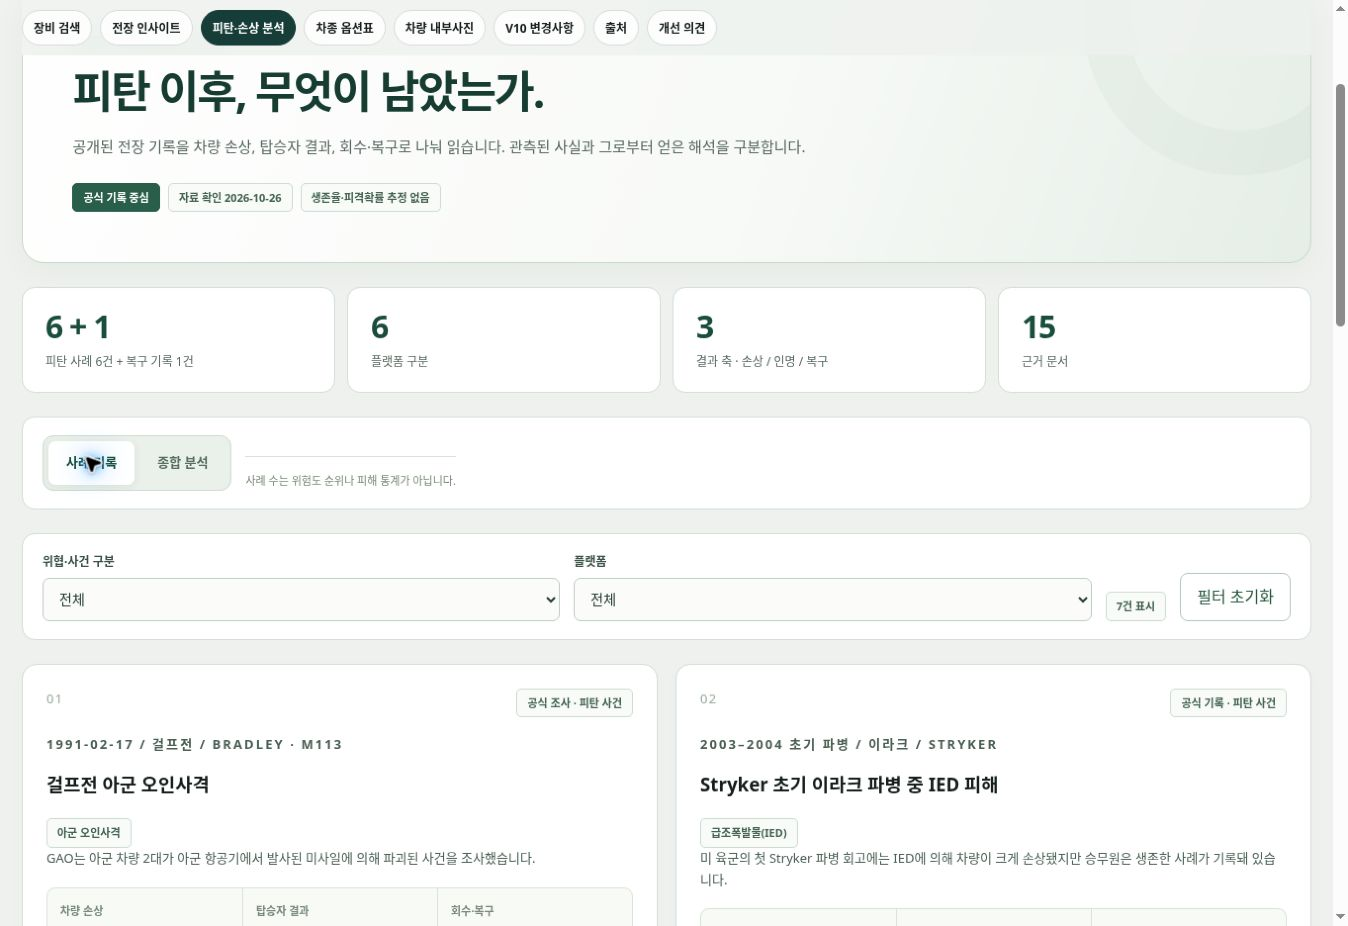
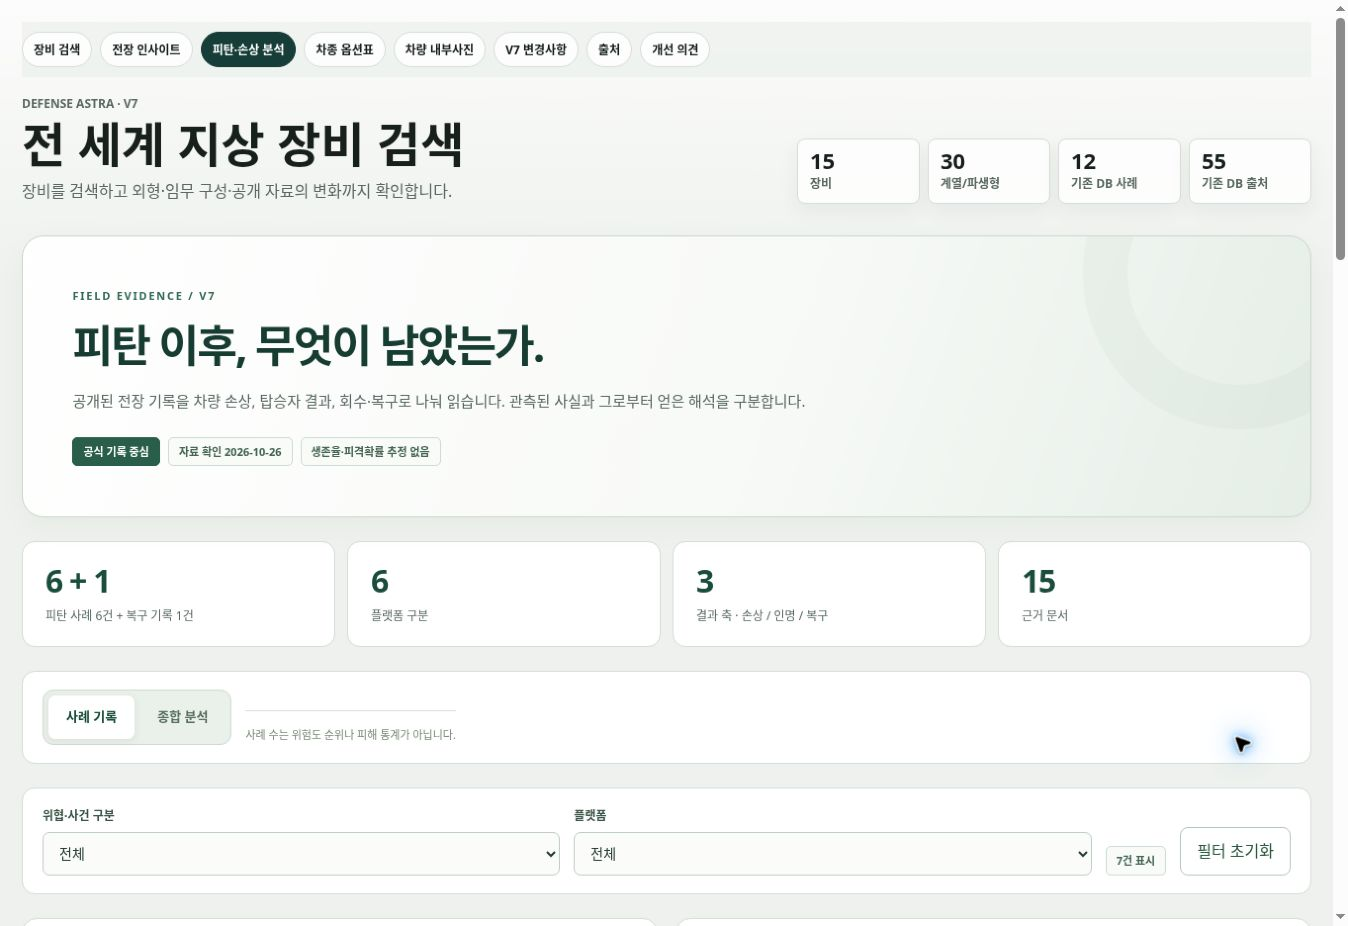
Correct webapp version to V7, preserve V10 shared links, refresh screenshots

diff --git a/src/components/V10Workspace.tsx b/src/components/V10Workspace.tsx
@@ -48,7 +48,7 @@ function EvidencePage() {
   const [view, setView] = useState("cases");
   const cases = history.cases.filter((item) => (threat === "all" || item.threat === threat) && (platform === "all" || item.platform === platform));
   return <>
-    <Hero eyebrow="FIELD EVIDENCE / V10" title="피탄 이후, 무엇이 남았는가." description="공개된 전장 기록을 차량 손상, 탑승자 결과, 회수·복구로 나눠 읽습니다. 관측된 사실과 그로부터 얻은 해석을 구분합니다.">
+    <Hero eyebrow="FIELD EVIDENCE / V7" title="피탄 이후, 무엇이 남았는가." description="공개된 전장 기록을 차량 손상, 탑승자 결과, 회수·복구로 나눠 읽습니다. 관측된 사실과 그로부터 얻은 해석을 구분합니다.">
       <span className="v10-pill v10-pill-solid">공식 기록 중심</span><span className="v10-pill">자료 확인 {history.checkedAt}</span><span className="v10-pill">생존율·피격확률 추정 없음</span>
     </Hero>
     <div className="v10-stats"><div className="v10-stat"><strong>6 + 1</strong><span>피탄 사례 6건 + 복구 기록 1건</span></div><div className="v10-stat"><strong>{new Set(history.cases.map((item) => item.platform)).size}</strong><span>플랫폼 구분</span></div><div className="v10-stat"><strong>3</strong><span>결과 축 · 손상 / 인명 / 복구</span></div><div className="v10-stat"><strong>{history.sources.length}</strong><span>근거 문서</span></div></div>
@@ -84,13 +84,13 @@ function OptionsPage() {
   const rows = vehicle.options.filter((item) => category === "all" || item.category === category);
   const selectedOptions = vehicle.options.filter((item) => selected.includes(item.id));
   const label = (id: string) => options.statusLegend.find((item) => item.id === id)?.label ?? id;
-  const selectionText = [`Defense Astra V10 · 관심 구성`, `차종: ${vehicle.name}`, `기준 계열형: ${variant.nameKo} (${variant.name})`, `공개 상태: ${label(variant.status)}`, ...selectedOptions.map((item) => `- ${item.name}: ${label(item.status)}\n  ${item.detail}`), "체크한 항목은 검토용 관심 목록입니다. 동시 탑재·호환성·가격을 보증하지 않습니다.", `자료 확인: ${options.checkedAt}`].join("\n");
+  const selectionText = [`Defense Astra V7 · 관심 구성`, `차종: ${vehicle.name}`, `기준 계열형: ${variant.nameKo} (${variant.name})`, `공개 상태: ${label(variant.status)}`, ...selectedOptions.map((item) => `- ${item.name}: ${label(item.status)}\n  ${item.detail}`), "체크한 항목은 검토용 관심 목록입니다. 동시 탑재·호환성·가격을 보증하지 않습니다.", `자료 확인: ${options.checkedAt}`].join("\n");
   function changeVehicle(id: string) { setVehicleId(id); setVariantId(id === "boxer" ? "boxer-samson" : "stryker-icv"); setSelected([]); setCategory("all"); setStatus(""); setManual(false); }
   function changeVariant(id: string) { setVariantId(id); setSelected([]); setStatus(""); setManual(false); }
   async function copy() { try { await navigator.clipboard.writeText(selectionText); setStatus("관심 구성을 복사했습니다."); setManual(false); } catch { setStatus("아래 내용을 선택해 직접 복사해 주세요."); setManual(true); } }
-  function download() { const escape = (value: string) => `"${value.replace(/"/g, '""')}"`; const lines = [["차종", "계열형", "관심 항목", "확인 상태", "내용"], ...selectedOptions.map((item) => [vehicle.name, variant.nameKo, item.name, label(item.status), item.detail])]; const blob = new Blob(["\ufeff" + lines.map((line) => line.map(escape).join(",")).join("\r\n")], { type: "text/csv;charset=utf-8" }); const url = URL.createObjectURL(blob); const anchor = document.createElement("a"); anchor.href = url; anchor.download = `Defense_Astra_V10_${vehicle.id}_interest.csv`; anchor.click(); setTimeout(() => URL.revokeObjectURL(url), 1000); }
+  function download() { const escape = (value: string) => `"${value.replace(/"/g, '""')}"`; const lines = [["차종", "계열형", "관심 항목", "확인 상태", "내용"], ...selectedOptions.map((item) => [vehicle.name, variant.nameKo, item.name, label(item.status), item.detail])]; const blob = new Blob(["\ufeff" + lines.map((line) => line.map(escape).join(",")).join("\r\n")], { type: "text/csv;charset=utf-8" }); const url = URL.createObjectURL(blob); const anchor = document.createElement("a"); anchor.href = url; anchor.download = `Defense_Astra_V7_${vehicle.id}_interest.csv`; anchor.click(); setTimeout(() => URL.revokeObjectURL(url), 1000); }
   return <>
-    <Hero eyebrow="VEHICLE CONFIGURATOR / V10" title="차종을 고르고, 구성을 비교하세요." description="자동차 옵션표처럼 살펴보는 공개 사양 카탈로그입니다. 계열형을 먼저 고른 뒤, 관련 장비를 관심 목록에 담아 비교합니다."><span className="v10-pill v10-pill-solid">2개 차종 · 20개 계열형</span><span className="v10-pill">제안 / 계약 / 납품 구분</span><span className="v10-pill">자료 확인 {options.checkedAt}</span></Hero>
+    <Hero eyebrow="VEHICLE CONFIGURATOR / V7" title="차종을 고르고, 구성을 비교하세요." description="자동차 옵션표처럼 살펴보는 공개 사양 카탈로그입니다. 계열형을 먼저 고른 뒤, 관련 장비를 관심 목록에 담아 비교합니다."><span className="v10-pill v10-pill-solid">2개 차종 · 20개 계열형</span><span className="v10-pill">제안 / 계약 / 납품 구분</span><span className="v10-pill">자료 확인 {options.checkedAt}</span></Hero>
     <div className="v10-vehicle-choices">{options.vehicles.map((item) => <button key={item.id} type="button" className="v10-choice" aria-pressed={vehicle.id === item.id} onClick={() => changeVehicle(item.id)}><span className="v10-eyebrow">{item.variants.length} VARIANTS</span><strong>{item.name}</strong><span>{item.tagline}</span></button>)}</div>
     <div className="v10-vehicle-intro"><p>{vehicle.summary}</p>{sourceLinks(vehicle.sources, options.sources)}</div>
     <div className="v10-toolbar"><label className="v10-field">01 · 기준 계열형<select value={variant.id} onChange={(event) => changeVariant(event.target.value)}>{vehicle.variants.map((item) => <option key={item.id} value={item.id}>{item.nameKo} · {item.market}</option>)}</select></label><label className="v10-field">02 · 옵션 분야<select value={category} onChange={(event) => setCategory(event.target.value)}><option value="all">전체 분야</option>{[...new Set(vehicle.options.map((item) => item.category))].map((value) => <option key={value}>{value}</option>)}</select></label></div>
@@ -115,21 +115,21 @@ function InteriorsPage({ onOpen }: { onOpen: (image: ImageView) => void }) {
 
 function ChangesPage({ onNavigate, onOpen }: { onNavigate: Props["onNavigate"]; onOpen: (image: ImageView) => void }) {
   const changes = [
-    { id: "evidence", number: "01", title: "피탄·손상 사례와 종합 분석", before: "기존 전장 인사이트는 기술 동향과 사례 요약 중심이었습니다.", after: "피탄 이후의 차량·인명·회수 결과를 분리하고, 원문 근거와 미확인 범위를 함께 봅니다.", route: "/evidence", action: "피탄 분석 열기", caption: "V10 · 공개 사례 기록과 결과 분류" },
-    { id: "options", number: "02", title: "BOXER·STRYKER 옵션표", before: "기존에는 장비 상세와 파생형 정보를 각각 확인했습니다.", after: "차종과 기준 계열형을 고르면 관련 옵션, 확인 상태, 관심 구성 목록을 한 화면에서 정리합니다.", route: "/options", action: "차종별 옵션 열기", caption: "V10 · 차종·계열형별 공개 옵션 비교" },
-    { id: "interiors", number: "03", title: "차종별 내부사진", before: "외형·3D 중심 화면에서 내부 공간은 별도 자료를 찾아야 했습니다.", after: "차종별 실제 내부사진을 모아 확대해서 보고, 파생형·출처·사용 조건까지 확인합니다.", route: "/interiors", action: "내부사진 시연", caption: "V10 · 실제 내부사진 갤러리", optional: true }
+    { id: "evidence", number: "01", title: "피탄·손상 사례와 종합 분석", before: "기존 전장 인사이트는 기술 동향과 사례 요약 중심이었습니다.", after: "피탄 이후의 차량·인명·회수 결과를 분리하고, 원문 근거와 미확인 범위를 함께 봅니다.", route: "/evidence", action: "피탄 분석 열기", caption: "V7 · 공개 사례 기록과 결과 분류" },
+    { id: "options", number: "02", title: "BOXER·STRYKER 옵션표", before: "기존에는 장비 상세와 파생형 정보를 각각 확인했습니다.", after: "차종과 기준 계열형을 고르면 관련 옵션, 확인 상태, 관심 구성 목록을 한 화면에서 정리합니다.", route: "/options", action: "차종별 옵션 열기", caption: "V7 · 차종·계열형별 공개 옵션 비교" },
+    { id: "interiors", number: "03", title: "차종별 내부사진", before: "외형·3D 중심 화면에서 내부 공간은 별도 자료를 찾아야 했습니다.", after: "차종별 실제 내부사진을 모아 확대해서 보고, 파생형·출처·사용 조건까지 확인합니다.", route: "/interiors", action: "내부사진 시연", caption: "V7 · 실제 내부사진 갤러리", optional: true }
   ];
   const show = (id: string, title: string, caption: string) => onOpen({ src: publicPath(`media/v10/screenshots/${id}.jpg`), title, caption });
-  return <><Hero eyebrow="WHAT CHANGED / V10" title="의견이 기능으로 바뀐 순간." description="기존 화면과 새 기능의 실제 캡처를 모았습니다. 발표 중 변경 내용을 보여주고, 바로 해당 화면으로 이동할 수 있습니다."><span className="v10-pill v10-pill-solid">핵심 개선 2건</span><span className="v10-pill">추가 시연 · 내부사진</span><span className="v10-pill">기준 화면: 기존 웹앱 V6</span></Hero>
-    <section className="v10-before-after"><div><p className="v10-eyebrow">BEFORE / V6</p><h3>기존 전장 인사이트</h3><p>공식 발표와 기술 동향을 카드로 확인하던 화면입니다. 아래 V10 신규 기능의 비교 기준으로 사용했습니다.</p></div><button className="v10-photo-button" type="button" aria-label="기존 V6 전장 인사이트 캡처 확대" onClick={() => show("before", "기존 V6 · 전장 인사이트", "V10 변경 전 비교 기준 화면. 기존 공식 발표·기술 동향 카드 화면을 실제 캡처했습니다.")}><Photo src={publicPath("media/v10/screenshots/before.jpg")} alt="기존 V6 전장 인사이트 화면 캡처" className="v10-screenshot" /></button></section>
-    <div className="v10-change-grid">{changes.map((item) => <article className="v10-change" key={item.id}><div className="v10-change-detail"><div className="v10-card-heading"><span className="v10-card-index">{item.number}</span><span className={`v10-pill ${item.optional ? "v10-pill-warn" : "v10-pill-solid"}`}>{item.optional ? "추가 시연" : "V10 핵심 개선"}</span></div><h3>{item.title}</h3><dl><dt>이전</dt><dd>{item.before}</dd><dt>변경</dt><dd>{item.after}</dd></dl></div><button type="button" className="v10-photo-button" aria-label={`${item.title} 화면 캡처 확대`} onClick={() => show(item.id, item.title, item.caption)}><Photo src={publicPath(`media/v10/screenshots/${item.id}.jpg`)} alt={item.caption} className="v10-screenshot" /></button><div className="v10-change-detail"><p className="v10-footnote">{item.caption} · 실제 화면 캡처</p><button type="button" className="v10-button primary" onClick={() => onNavigate(item.route)}>{item.action} →</button></div></article>)}</div>
+  return <><Hero eyebrow="WHAT CHANGED / V7" title="의견이 기능으로 바뀐 순간." description="기존 화면과 새 기능의 실제 캡처를 모았습니다. 발표 중 변경 내용을 보여주고, 바로 해당 화면으로 이동할 수 있습니다."><span className="v10-pill v10-pill-solid">핵심 개선 2건</span><span className="v10-pill">추가 시연 · 내부사진</span><span className="v10-pill">기준 화면: 기존 웹앱 V6</span></Hero>
+    <section className="v10-before-after"><div><p className="v10-eyebrow">BEFORE / V6</p><h3>기존 전장 인사이트</h3><p>공식 발표와 기술 동향을 카드로 확인하던 화면입니다. 아래 V7 신규 기능의 비교 기준으로 사용했습니다.</p></div><button className="v10-photo-button" type="button" aria-label="기존 V6 전장 인사이트 캡처 확대" onClick={() => show("before", "기존 V6 · 전장 인사이트", "V7 변경 전 비교 기준 화면. 기존 공식 발표·기술 동향 카드 화면을 실제 캡처했습니다.")}><Photo src={publicPath("media/v10/screenshots/before.jpg")} alt="기존 V6 전장 인사이트 화면 캡처" className="v10-screenshot" /></button></section>
+    <div className="v10-change-grid">{changes.map((item) => <article className="v10-change" key={item.id}><div className="v10-change-detail"><div className="v10-card-heading"><span className="v10-card-index">{item.number}</span><span className={`v10-pill ${item.optional ? "v10-pill-warn" : "v10-pill-solid"}`}>{item.optional ? "추가 시연" : "V7 핵심 개선"}</span></div><h3>{item.title}</h3><dl><dt>이전</dt><dd>{item.before}</dd><dt>변경</dt><dd>{item.after}</dd></dl></div><button type="button" className="v10-photo-button" aria-label={`${item.title} 화면 캡처 확대`} onClick={() => show(item.id, item.title, item.caption)}><Photo src={publicPath(`media/v10/screenshots/${item.id}.jpg`)} alt={item.caption} className="v10-screenshot" /></button><div className="v10-change-detail"><p className="v10-footnote">{item.caption} · 실제 화면 캡처</p><button type="button" className="v10-button primary" onClick={() => onNavigate(item.route)}>{item.action} →</button></div></article>)}</div>
     <div className="v10-note"><h3>청중에게 물어볼 세 가지</h3><ol><li>어떤 차종을 다음 옵션표에 추가할까요?</li><li>어떤 피탄·복구 사례가 더 필요할까요?</li><li>내부에서 어떤 공간을 더 보고 싶으신가요?</li></ol></div><div className="v10-demo"><div><p className="v10-eyebrow">발표 진행</p><h3>추가 의견이 없으면, 내부사진으로 이어가세요.</h3><p>“차량 외형뿐 아니라 내부 공간도 차종별로 모아 볼 수 있습니다.”</p></div><div className="v10-inline-actions"><button type="button" className="v10-button" onClick={() => onNavigate("/interiors")}>내부사진 열기</button><button type="button" className="v10-button" onClick={() => onNavigate("/feedback")}>현장 개선 의견 기록</button></div></div>
   </>;
 }
 
 function V10Content({ page, onNavigate }: Props) {
   const [image, setImage] = useState<ImageView | null>(null);
-  return <section className="v10-workspace" aria-label="V10 연구 및 발표 기능">{page === "evidence" ? <EvidencePage /> : page === "options" ? <OptionsPage /> : page === "interiors" ? <InteriorsPage onOpen={setImage} /> : <ChangesPage onNavigate={onNavigate} onOpen={setImage} />}<ImageDialog item={image} onClose={() => setImage(null)} /></section>;
+  return <section className="v10-workspace" aria-label="V7 연구 및 발표 기능">{page === "evidence" ? <EvidencePage /> : page === "options" ? <OptionsPage /> : page === "interiors" ? <InteriorsPage onOpen={setImage} /> : <ChangesPage onNavigate={onNavigate} onOpen={setImage} />}<ImageDialog item={image} onClose={() => setImage(null)} /></section>;
 }
 
 export function V10Workspace(props: Props) {

diff --git a/src/App.tsx b/src/App.tsx
@@ -172,7 +172,7 @@ const navItems = [
   { path: "/evidence", label: "피탄·손상 분석" },
   { path: "/options", label: "차종 옵션표" },
   { path: "/interiors", label: "차량 내부사진" },
-  { path: "/changes", label: "V10 변경사항" },
+  { path: "/changes", label: "V7 변경사항" },
   { path: "/sources", label: "출처" },
   { path: "/feedback", label: "개선 의견" }
 ];
@@ -783,7 +783,7 @@ export function App() {
 
       <header className="topbar">
         <div>
-          <p className="eyebrow">DEFENSE ASTRA · V10</p>
+          <p className="eyebrow">DEFENSE ASTRA · V7</p>
           <h1>전 세계 지상 장비 검색</h1>
           <p className="hero-subtitle">장비를 검색하고 외형·임무 구성·공개 자료의 변화까지 확인합니다.</p>
         </div>

diff --git a/DECISIONS.md b/DECISIONS.md
@@ -712,3 +712,21 @@
 - HTTPS 옵션표에서 360° 상황인식 항목 선택 후 관심 구성 복사 성공. 실제 클립보드의 차종·계열형·선택 항목·주의문 확인.
 - 공개 변경사항 화면에서 실제 캡처4장과 기능 이동 버튼 확인. 화면 증거 qa/v10-live-changes.jpg, HTTP 검증 qa/v10-public-verification.json.
 - 빌드·33개 테스트·자료 검증 통과. 기존 발표자료 전체 lint 문제와 자동화 브라우저 OSM 타일403은 앞선 검증 기록의 범위·한계를 유지함.
+
+
+## 웹앱 버전 정정 V10 → V7 · 2026-10-26
+- 상태: new_task → planned → executing. 사용자의 버전 변경 지시를 구현·기존 공개주소 반영 승인으로 적용.
+- 목표: 기능·자료는 그대로 두고 웹앱의 버전과 공개 경로를 V7로 정정. 별도 발표자료 버전은 변경하지 않음.
+- 수정: releases.json, App/V10Workspace 표시·내보내기, 이미지 크레딧, 실제 화면 캡처, 버전 별칭 생성 스크립트.
+- 위험: 공유된 V10 링크 단절과 캡처 안의 V10 잔존. V10 → V7 경로별 자동이동과 신규 캡처로 해소. 내부 파일·CSS 식별자는 호환성 유지를 위해 유지.
+- 검증: 빌드·기존 테스트·변경 파일 검사, 독립 범위 검토, 공개 V7 화면과 기존 V10 경로 이동 확인.
+
+
+## 웹앱 V7 버전 정정 완료 · 2026-10-26
+- 상태: executing → verifying → completed. 기능은 유지하고 정식 버전을 V7로 정정. UI·복사 제목·CSV 파일명·크레딧과 실제 캡처3장 동기화.
+- 공개 commit: 89825d46e58102aa97da101c0de87c62b89ec584. GitHub Pages 실행40288728168 completed/success.
+- 공개 URL: https://defense-astra.github.io/versions/v7/changes
+- 검증: npm run build 및 node scripts/build-public-release.mjs 통과, npm run test 7파일33개 통과, 변경 TS/TSX/스크립트 ESLint 및 git diff --check 통과. 기존 번들 크기 경고 유지.
+- 독립 재검토: 별칭28경로×slash/no-slash/index.html 형태 총84건에서 경로·쿼리·해시 보존 확인.
+- 공개 브라우저: /versions/v10/changes 접속 후 /versions/v7/changes 자동이동, V7 배너·메뉴·본문·캡처4장 정상 표시 확인. 증거 qa/v7-live-changes.jpg.
+- 발표자료와 기존 버전 보관자료는 변경하지 않음. 내부 V10 컴포넌트/CSS/미디어 경로는 식별자로 유지하며, 과거 V10 기록은 정정 이력으로 보존.
